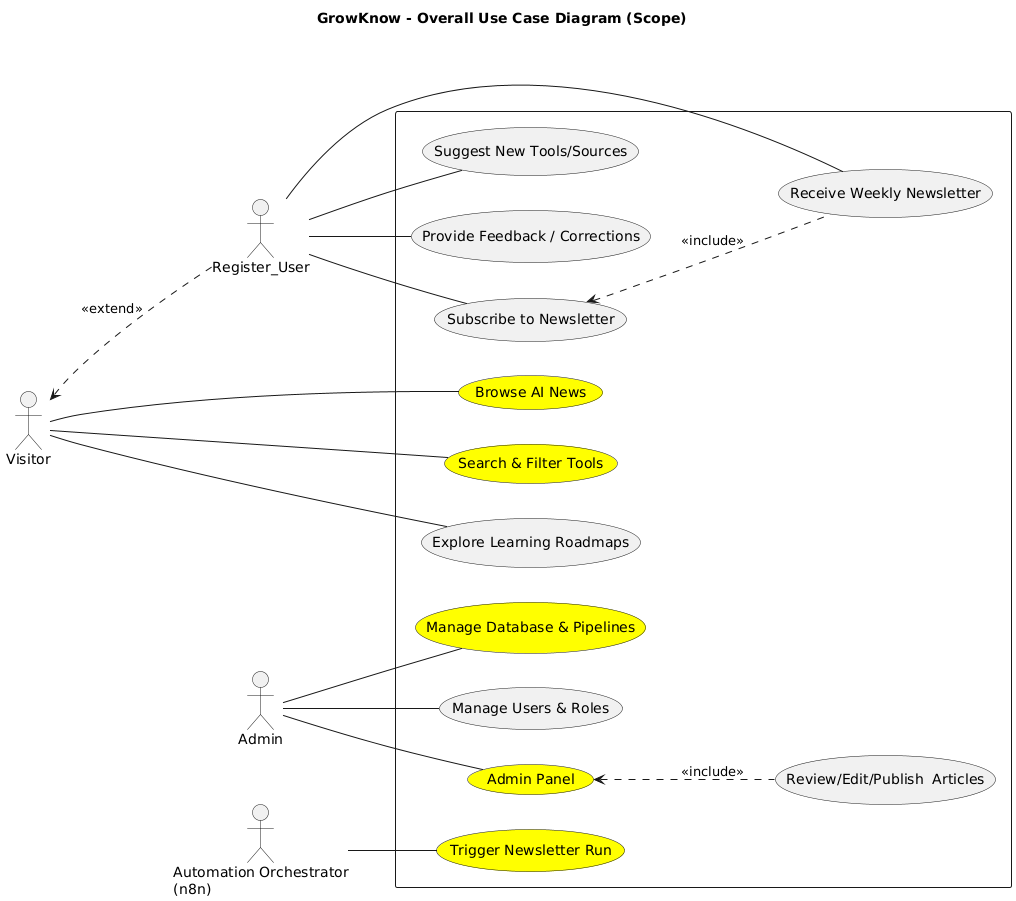
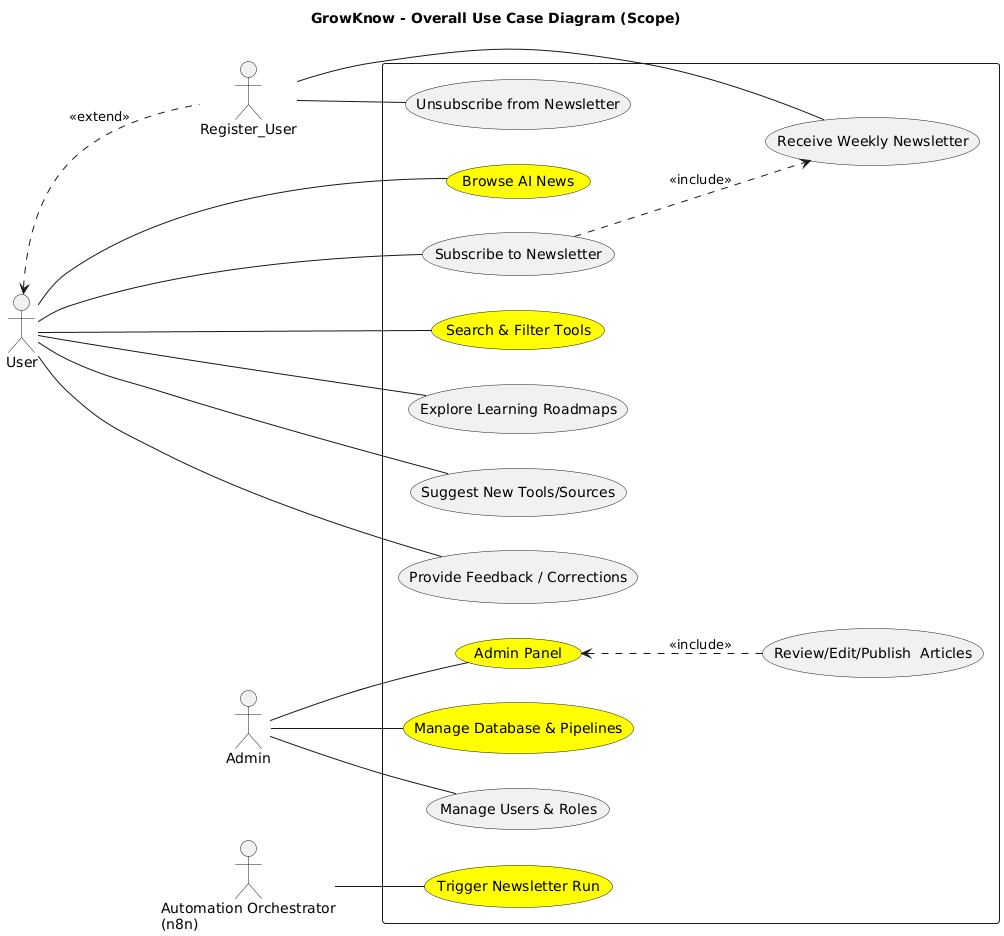
SRS and UML updates

diff --git a/Software_Requirements_Specification.md b/Software_Requirements_Specification.md
@@ -152,9 +152,10 @@ For later releases we plan to implement:
 - 3.1.10 Manage Users & Roles
 - 3.1.11 Explore Learning Roadmaps
 - 3.1.12 Review/Edit/Publish Articles
+- 3.1.13 Unsubscribe from Newslaetter
 
 #### 3.1.1 Browse AI News
-Visitors can read and navigate through the latest AI news, which are automatically collected, summarized, and tagged.
+Users can read and navigate through the latest AI news, which are automatically collected, summarized, and tagged.
 
 #### 3.1.2 Admin Panel
 Admins access a dashboard for managing users, roles, and platform-wide settings.
@@ -165,7 +166,7 @@ This Use Case is specified in a [seperate document](UCs/AdminPanel.md).
 Admins ensure the consistency and quality of stored news, tools, and roadmaps while managing automation pipelines.
 
 #### 3.1.4 Search & Filter Tools
-Visitors and registered users can search and filter through the AI tool directory using categories, domains, and budget.
+Users can search and filter through the AI tool directory using categories, domains, and budget.
 
 #### 3.1.5 Trigger Newsletter Run
 The automation orchestrator (n8n) can initiate newsletter generation and delivery.
@@ -173,17 +174,17 @@ The automation orchestrator (n8n) can initiate newsletter generation and deliver
 This Use Case is specified in a [seperate document](UCs/TriggerNewsletterRun.md).
 
 #### 3.1.6 Subscribe to Newsletter
-Registered users can subscribe to receive the weekly newsletter.
+Users can subscribe to receive the weekly newsletter.
 
 #### 3.1.7 Receive Weekly Newsletter
-Subscribers receive a curated newsletter summarizing the most relevant AI updates with source transparency.
+Registered Users receive a curated newsletter summarizing the most relevant AI updates with source transparency.
 
 #### 3.1.8 Suggest New Tools/Sources
-Registered users can propose new tools or sources to be added to the directory.
+Users can propose new tools or sources to be added to the directory.
 
 
 #### 3.1.9 Provide Feedback / Corrections
-Registered users can suggest corrections or improvements to existing content.
+Users can suggest corrections or improvements to existing content.
 
 
 #### 3.1.10 Manage Users & Roles
@@ -194,6 +195,9 @@ Users can navigate role-based roadmaps (e.g., Data Engineer, ML Engineer) with s
 
 #### 3.1.12 Review/Edit/Publish Articles
 Admins review automatically ingested articles before publishing them.
+
+#### 3.1.13 Unsubscribe to Newsletter
+Registered users can unsubscribe from receive the weekly newsletter.
 
 ### 3.2 Usability
 We aim to design the GrowKnow platform with a clean, intuitive, and responsive interface. The user experience should feel natural, requiring no special training.

diff --git a/Diagrams/Plantum_GrowKnow_Overal_UML.md b/Diagrams/Plantum_GrowKnow_Overal_UML.md
@@ -1,0 +1,42 @@
+@startuml
+title GrowKnow – Overall Use Case Diagram (Scope)
+
+left to right direction
+actor "User" as u
+actor "Register_User" as ru
+actor "Admin" as a
+actor "Automation Orchestrator\n(n8n)" as N8N
+
+rectangle {
+usecase "Browse AI News" as UC1 #Yellow
+usecase "Subscribe to Newsletter" as UC2
+usecase "Receive Weekly Newsletter" as UC3
+usecase "Search & Filter Tools" as UC4 #Yellow
+usecase "Explore Learning Roadmaps" as UC5
+usecase "Suggest New Tools/Sources" as UC6
+usecase "Provide Feedback / Corrections" as UC7
+usecase "Admin Panel" as UC8 #Yellow
+usecase "Manage Database & Pipelines" as UC9 #Yellow
+usecase "Manage Users & Roles" as UC10
+usecase "Trigger Newsletter Run" as UC_TriggerNL #Yellow
+usecase "Review/Edit/Publish  Articles" as UC11
+Usecase "Unsubscribe from Newsletter" as UC12
+}
+
+u -- UC1
+u -- UC4
+u -- UC5
+u -- UC2
+ru -- UC3
+ru -- UC12
+u -- UC6
+u -- UC7
+a -- UC8
+a -- UC9
+a -- UC10
+N8N -- UC_TriggerNL
+
+UC2 ..> UC3 : <<include>>
+UC8 <.. UC11 : <<include>>
+u <.. ru : <<extend>>
+@enduml
